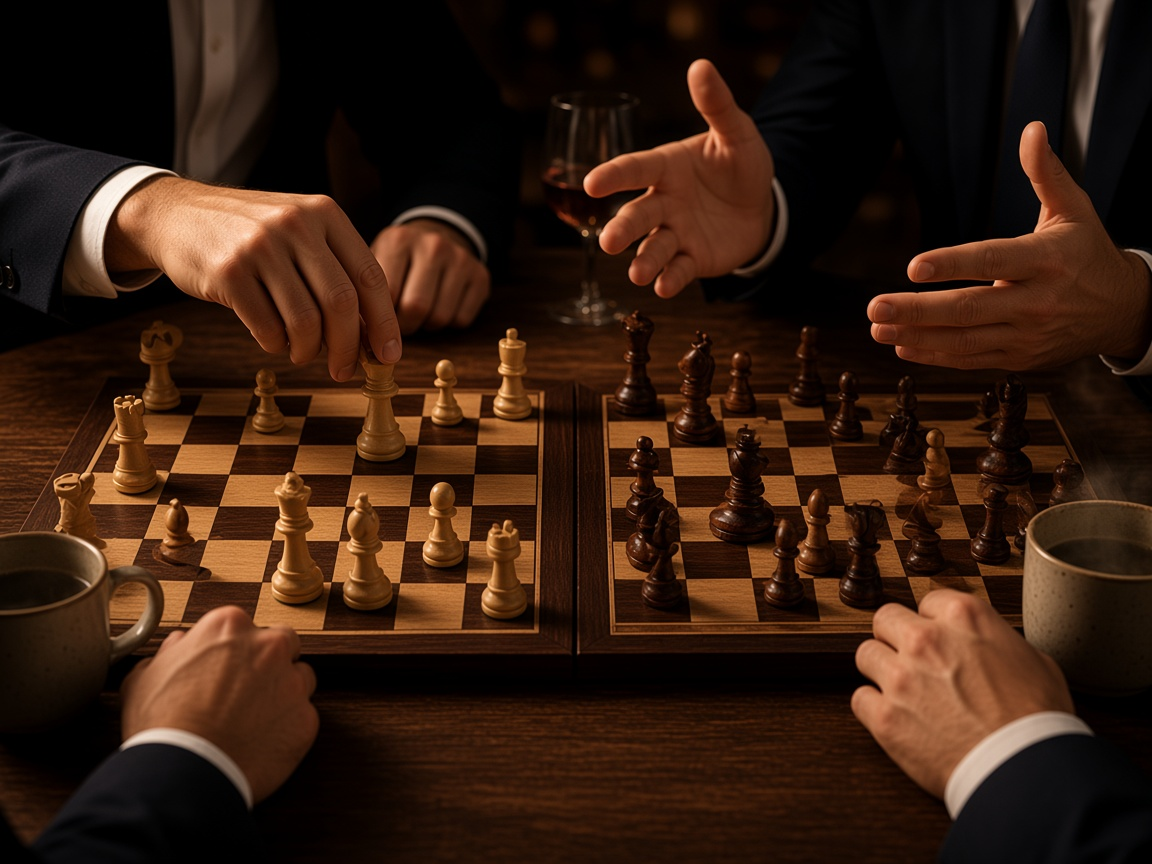
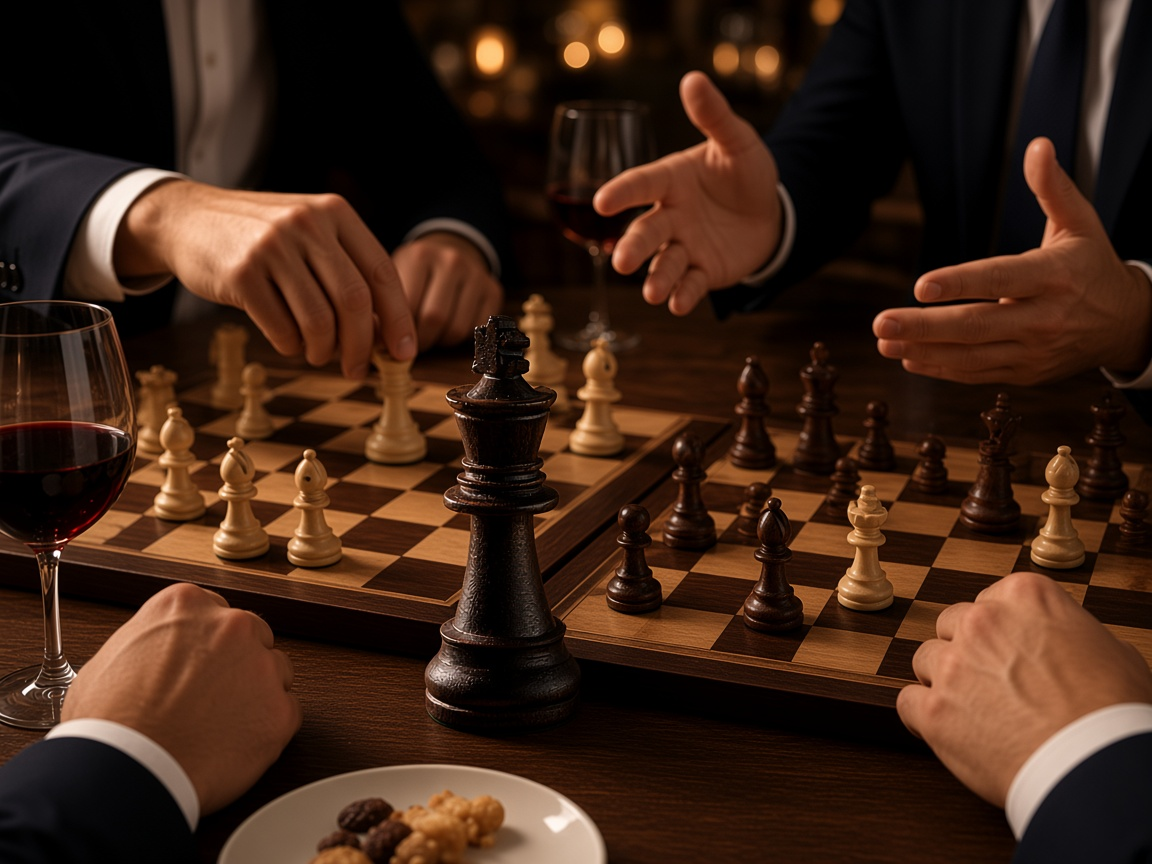
Move imagery to restaurant venues and mention wine and snacks.
Keep chess central while framing evenings as social hospitality in larger rooms, not a private home.

diff --git a/en/teams.html b/en/teams.html
@@ -53,13 +53,13 @@
         <div class="split-text">
           <p class="kicker" data-i18n="teams.kicker">MadridMinds for Teams</p>
           <h1 data-i18n="teams.h1">Think together. Play together.</h1>
-          <p class="lede" data-i18n="teams.lede">A premium chess experience for teams — designed so complete beginners can join from the start.</p>
+          <p class="lede" data-i18n="teams.lede">A premium chess experience for teams — designed so complete beginners can join from the start. Think, play, and share the table over wine and snacks.</p>
           <div class="hero-actions">
             <a class="btn btn-primary" href="mailto:ruy@madridminds.com?subject=MadridMinds%20for%20Teams%20proposal" data-i18n="teams.cta" data-i18n-mailto-subject="teams.proposalSubject">Request a proposal</a>
           </div>
         </div>
         <div class="split-media">
-          <img src="/photos/web/evening-play.jpg" alt="A lively team chess evening with smiles and high-fives" width="1152" height="864" />
+          <img src="/photos/web/evening-play.jpg" alt="A lively team chess evening in a private room with wine and snacks" width="1152" height="864" />
         </div>
       </div>
     </header>
@@ -115,11 +115,11 @@
     <section class="section section--flush teams-atmosphere" aria-labelledby="teams-atmosphere">
       <div class="split">
         <div class="split-media">
-          <img src="/photos/web/hands-on-board.jpg" alt="A small group celebrating moves around two boards" width="1152" height="864" />
+          <img src="/photos/web/hands-on-board.jpg" alt="A small group celebrating chess moves over wine and snacks" width="1152" height="864" />
         </div>
         <div class="split-text">
           <h2 class="section-heading" id="teams-atmosphere" data-i18n="teams.atmoTitle">A team experience that feels engaging, not corporate.</h2>
-          <p class="lede" data-i18n="teams.atmoBody">Small groups, a comfortable setting, conversation and friendly competition. The experience should feel engaging and polished — not like a lecture or traditional training session.</p>
+          <p class="lede" data-i18n="teams.atmoBody">A private room, conversation, friendly competition — with wine and snacks on the table so it feels like a real evening together, not a training session.</p>
         </div>
       </div>
     </section>

diff --git a/es/the-first-move.html b/es/the-first-move.html
@@ -60,7 +60,7 @@
       <p class="kicker" data-i18n="firstMove.kicker">01 · Begin</p>
       <h1 data-i18n="experiences.firstMoveName">The First Move</h1>
       <p class="hero-sub" data-i18n="firstMove.sub">Your first chess evening.</p>
-      <p class="lede lede--center" data-i18n="firstMove.lede">Chess is easier than you think. A standalone evening for complete beginners — fun, surprising, and unintimidating.</p>
+      <p class="lede lede--center" data-i18n="firstMove.lede">Chess is easier than you think. A standalone evening for complete beginners — fun, surprising, and unintimidating. Chess at the centre, with wine and snacks around the table.</p>
       <div class="hero-actions" style="margin-top:1.5rem">
         <a class="btn btn-primary" href="/book.html" data-i18n="common.bookFirstMove">Book your First Move</a>
         <a class="btn btn-ghost" href="#notify" data-i18n="common.getNotified">Get notified of the next dates</a>
@@ -111,7 +111,7 @@
           <div class="practical-item"><dt data-i18n="common.groupLabel">Group</dt><dd data-i18n="common.smallGroups">Small groups</dd></div>
           <div class="practical-item"><dt data-i18n="common.priceLabel">Price</dt><dd><span data-mm-price="experience">€55</span> <span data-i18n="common.perPerson">per person</span>. <span data-i18n="home.priceGuestLine">Bring a guest at no extra cost.</span></dd></div>
           <div class="practical-item"><dt data-i18n="common.guestLabel">Guest policy</dt><dd data-i18n="firstMove.guest">Bring a guest if you like — they’re free. Coming alone is normal — we’ll seat you with the group.</dd></div>
-          <div class="practical-item"><dt data-i18n="common.drinksLabel">Drinks</dt><dd data-i18n="firstMove.drinks">Available as part of the atmosphere</dd></div>
+          <div class="practical-item"><dt data-i18n="common.drinksLabel">Wine &amp; snacks</dt><dd data-i18n="firstMove.drinks">Wine and light snacks included as part of the evening</dd></div>
           <div class="practical-item"><dt data-i18n="common.commitmentLabel">Commitment</dt><dd data-i18n="firstMove.commitment">Standalone evening. No subscription.</dd></div>
         </dl>
         <p style="margin-top:2rem"><a class="btn btn-primary" href="/book.html" data-i18n="common.bookFirstMove">Book your First Move</a></p>

diff --git a/templates/locale/first-move.html b/templates/locale/first-move.html
@@ -3,7 +3,7 @@
       <p class="kicker" data-i18n="firstMove.kicker">01 · Begin</p>
       <h1 data-i18n="experiences.firstMoveName">The First Move</h1>
       <p class="hero-sub" data-i18n="firstMove.sub">Your first chess evening.</p>
-      <p class="lede lede--center" data-i18n="firstMove.lede">Chess is easier than you think. A standalone evening for complete beginners — fun, surprising, and unintimidating.</p>
+      <p class="lede lede--center" data-i18n="firstMove.lede">Chess is easier than you think. A standalone evening for complete beginners — fun, surprising, and unintimidating. Chess at the centre, with wine and snacks around the table.</p>
       <div class="hero-actions" style="margin-top:1.5rem">
         <a class="btn btn-primary" href="/book.html" data-i18n="common.bookFirstMove">Book your First Move</a>
         <a class="btn btn-ghost" href="#notify" data-i18n="common.getNotified">Get notified of the next dates</a>
@@ -54,7 +54,7 @@
           <div class="practical-item"><dt data-i18n="common.groupLabel">Group</dt><dd data-i18n="common.smallGroups">Small groups</dd></div>
           <div class="practical-item"><dt data-i18n="common.priceLabel">Price</dt><dd><span data-mm-price="experience">€55</span> <span data-i18n="common.perPerson">per person</span>.</dd></div>
           <div class="practical-item"><dt data-i18n="common.guestLabel">Guest policy</dt><dd data-i18n="firstMove.guest">Tickets are per person. Coming alone is normal — we’ll seat you with the group.</dd></div>
-          <div class="practical-item"><dt data-i18n="common.drinksLabel">Drinks</dt><dd data-i18n="firstMove.drinks">Available as part of the atmosphere</dd></div>
+          <div class="practical-item"><dt data-i18n="common.drinksLabel">Wine &amp; snacks</dt><dd data-i18n="firstMove.drinks">Wine and light snacks included as part of the evening</dd></div>
           <div class="practical-item"><dt data-i18n="common.commitmentLabel">Commitment</dt><dd data-i18n="firstMove.commitment">Standalone evening. No subscription.</dd></div>
         </dl>
         <p style="margin-top:2rem"><a class="btn btn-primary" href="/book.html" data-i18n="common.bookFirstMove">Book your First Move</a></p>

diff --git a/en/the-first-move.html b/en/the-first-move.html
@@ -49,7 +49,7 @@
       <p class="kicker" data-i18n="firstMove.kicker">01 · Begin</p>
       <h1 data-i18n="experiences.firstMoveName">The First Move</h1>
       <p class="hero-sub" data-i18n="firstMove.sub">Your first chess evening.</p>
-      <p class="lede lede--center" data-i18n="firstMove.lede">Chess is easier than you think. A standalone evening for complete beginners — fun, surprising, and unintimidating.</p>
+      <p class="lede lede--center" data-i18n="firstMove.lede">Chess is easier than you think. A standalone evening for complete beginners — fun, surprising, and unintimidating. Chess at the centre, with wine and snacks around the table.</p>
       <div class="hero-actions" style="margin-top:1.5rem">
         <a class="btn btn-primary" href="/book.html" data-i18n="common.bookFirstMove">Book your First Move</a>
         <a class="btn btn-ghost" href="#notify" data-i18n="common.getNotified">Get notified of the next dates</a>
@@ -100,7 +100,7 @@
           <div class="practical-item"><dt data-i18n="common.groupLabel">Group</dt><dd data-i18n="common.smallGroups">Small groups</dd></div>
           <div class="practical-item"><dt data-i18n="common.priceLabel">Price</dt><dd><span data-mm-price="experience">€55</span> <span data-i18n="common.perPerson">per person</span>.</dd></div>
           <div class="practical-item"><dt data-i18n="common.guestLabel">Tickets</dt><dd data-i18n="firstMove.guest">Tickets are per person. Coming alone is normal — we’ll seat you with the group.</dd></div>
-          <div class="practical-item"><dt data-i18n="common.drinksLabel">Drinks</dt><dd data-i18n="firstMove.drinks">Available as part of the atmosphere</dd></div>
+          <div class="practical-item"><dt data-i18n="common.drinksLabel">Wine &amp; snacks</dt><dd data-i18n="firstMove.drinks">Wine and light snacks included as part of the evening</dd></div>
           <div class="practical-item"><dt data-i18n="common.commitmentLabel">Commitment</dt><dd data-i18n="firstMove.commitment">Standalone evening. No subscription.</dd></div>
         </dl>
         <p style="margin-top:2rem"><a class="btn btn-primary" href="/book.html" data-i18n="common.bookFirstMove">Book your First Move</a></p>

diff --git a/es/index.html b/es/index.html
@@ -145,11 +145,11 @@
           <h2 class="section-heading" id="atmosphere" data-i18n="home.atmoTitle">Una velada distinta.</h2>
           <div class="accent-rule"></div>
           <div class="body-text">
-            <p data-i18n="home.atmo1">Grupos pequeños, un entorno bonito, buena conversación y algo de verdad interesante que hacer juntos. El ajedrez está en el centro, pero la experiencia trata de aprender, pensar, jugar y disfrutar de la gente a tu alrededor.</p>
+            <p data-i18n="home.atmo1">Grupos pequeños, un entorno bonito, buena conversación, vino y algo para picar en la mesa — y algo de verdad interesante que hacer juntos. El ajedrez está en el centro, pero la velada trata de aprender, pensar, jugar y disfrutar de la gente a tu alrededor.</p>
           </div>
         </div>
         <div class="split-media">
-          <img src="/photos/web/hands-on-board.jpg" alt="Amigos riendo alrededor de tableros en una velada en Madrid" width="1152" height="864" />
+          <img src="/photos/web/hands-on-board.jpg" alt="Amigos riendo con ajedrez, vino y snacks en un restaurante de Madrid" width="1152" height="864" />
         </div>
       </div>
     </section>
@@ -159,7 +159,7 @@
     <section class="section section--tight" aria-labelledby="teams-gate">
       <div class="inner inner--narrow center">
         <h2 class="section-heading" id="teams-gate" data-i18n="home.teamsTitle">MadridMinds for Teams</h2>
-        <p class="lede lede--center" data-i18n="home.teamsLede">Learn something new together, play some chess and enjoy a little friendly competition. Designed so everyone can take part — no chess experience required.</p>
+        <p class="lede lede--center" data-i18n="home.teamsLede">Learn something new together, play some chess, share wine and snacks, and enjoy a little friendly competition. Designed so everyone can take part — no chess experience required.</p>
         <p style="margin-top:1.5rem"><a class="btn-text" href="/teams.html" data-i18n="home.teamsCta">Explorar experiencias para equipos</a></p>
       </div>
     </section>

diff --git a/en/index.html b/en/index.html
@@ -134,11 +134,11 @@
           <h2 class="section-heading" id="atmosphere" data-i18n="home.atmoTitle">A different kind of evening.</h2>
           <div class="accent-rule"></div>
           <div class="body-text">
-            <p data-i18n="home.atmo1">Small groups, a beautiful setting, good conversation and something genuinely engaging to do together. Chess is at the centre, but the experience is about learning, thinking, playing and enjoying the people around you.</p>
+            <p data-i18n="home.atmo1">Small groups, a beautiful setting, good conversation, wine and snacks on the table — and something genuinely engaging to do together. Chess is at the centre, but the evening is about learning, thinking, playing and enjoying the people around you.</p>
           </div>
         </div>
         <div class="split-media">
-          <img src="/photos/web/hands-on-board.jpg" alt="Friends laughing around chessboards at a Madrid evening" width="1152" height="864" />
+          <img src="/photos/web/hands-on-board.jpg" alt="Friends laughing over chess, wine and snacks in a Madrid restaurant" width="1152" height="864" />
         </div>
       </div>
     </section>
@@ -148,7 +148,7 @@
     <section class="section section--tight" aria-labelledby="teams-gate">
       <div class="inner inner--narrow center">
         <h2 class="section-heading" id="teams-gate" data-i18n="home.teamsTitle">MadridMinds for Teams</h2>
-        <p class="lede lede--center" data-i18n="home.teamsLede">Learn something new together, play some chess and enjoy a little friendly competition. Designed so everyone can take part — no chess experience required.</p>
+        <p class="lede lede--center" data-i18n="home.teamsLede">Learn something new together, play some chess, share wine and snacks, and enjoy a little friendly competition. Designed so everyone can take part — no chess experience required.</p>
         <p style="margin-top:1.5rem"><a class="btn-text" href="/teams.html" data-i18n="home.teamsCta">Explore team experiences</a></p>
       </div>
     </section>

diff --git a/templates/locale/home.html b/templates/locale/home.html
@@ -88,11 +88,11 @@
           <h2 class="section-heading" id="atmosphere" data-i18n="home.atmoTitle">A different kind of evening.</h2>
           <div class="accent-rule"></div>
           <div class="body-text">
-            <p data-i18n="home.atmo1">Small groups, a beautiful setting, good conversation and something genuinely engaging to do together. Chess is at the centre, but the experience is about learning, thinking, playing and enjoying the people around you.</p>
+            <p data-i18n="home.atmo1">Small groups, a beautiful setting, good conversation, wine and snacks on the table — and something genuinely engaging to do together. Chess is at the centre, but the evening is about learning, thinking, playing and enjoying the people around you.</p>
           </div>
         </div>
         <div class="split-media">
-          <img src="/photos/web/hands-on-board.jpg" alt="Friends laughing around chessboards at a Madrid evening" width="1152" height="864" />
+          <img src="/photos/web/hands-on-board.jpg" alt="Friends laughing over chess, wine and snacks in a Madrid restaurant" width="1152" height="864" />
         </div>
       </div>
     </section>
@@ -102,7 +102,7 @@
     <section class="section section--tight" aria-labelledby="teams-gate">
       <div class="inner inner--narrow center">
         <h2 class="section-heading" id="teams-gate" data-i18n="home.teamsTitle">MadridMinds for Teams</h2>
-        <p class="lede lede--center" data-i18n="home.teamsLede">Learn something new together, play some chess and enjoy a little friendly competition. Designed so everyone can take part — no chess experience required.</p>
+        <p class="lede lede--center" data-i18n="home.teamsLede">Learn something new together, play some chess, share wine and snacks, and enjoy a little friendly competition. Designed so everyone can take part — no chess experience required.</p>
         <p style="margin-top:1.5rem"><a class="btn-text" href="/teams.html" data-i18n="home.teamsCta">Explore team experiences</a></p>
       </div>
     </section>

diff --git a/en/about.html b/en/about.html
@@ -48,7 +48,7 @@
     <header class="page-hero">
       <p class="kicker" data-i18n="about.kicker">About MadridMinds</p>
       <h1 data-i18n="about.h1">More than learning chess.</h1>
-      <p class="lede lede--center" data-i18n="about.lede">MadridMinds brings together chess, conversation and a relaxed setting for adults who want to learn something new and spend an evening doing something genuinely engaging.</p>
+      <p class="lede lede--center" data-i18n="about.lede">MadridMinds brings together chess, conversation, wine and snacks, and a relaxed setting for adults who want to learn something new and spend an evening doing something genuinely engaging.</p>
     </header>
     <section class="section" style="padding-top:0">
       <div class="inner inner--narrow">
@@ -64,7 +64,7 @@
     <section class="section section--tight">
       <div class="inner inner--narrow center">
         <h2 class="section-heading" data-i18n="about.atmosphereTitle">A different kind of evening.</h2>
-        <p class="lede lede--center" data-i18n="about.atmosphereBody">Small groups, a comfortable setting, good conversation and time to actually engage with the people around you. Come to learn, come with a friend, or simply come because you want to try something different.</p>
+        <p class="lede lede--center" data-i18n="about.atmosphereBody">Small groups, a comfortable setting, wine and snacks, good conversation and time to actually engage with the people around you. Come to learn, come with a friend, or simply come because you want to try something different.</p>
       </div>
     </section>
     <section class="final-cta" style="padding-top:1rem">

diff --git a/templates/locale/about.html b/templates/locale/about.html
@@ -2,7 +2,7 @@
     <header class="page-hero">
       <p class="kicker" data-i18n="about.kicker">About MadridMinds</p>
       <h1 data-i18n="about.h1">More than learning chess.</h1>
-      <p class="lede lede--center" data-i18n="about.lede">MadridMinds brings together chess, conversation and a relaxed setting for adults who want to learn something new and spend an evening doing something genuinely engaging.</p>
+      <p class="lede lede--center" data-i18n="about.lede">MadridMinds brings together chess, conversation, wine and snacks, and a relaxed setting for adults who want to learn something new and spend an evening doing something genuinely engaging.</p>
     </header>
     <section class="section" style="padding-top:0">
       <div class="inner inner--narrow">
@@ -18,7 +18,7 @@
     <section class="section section--tight">
       <div class="inner inner--narrow center">
         <h2 class="section-heading" data-i18n="about.atmosphereTitle">A different kind of evening.</h2>
-        <p class="lede lede--center" data-i18n="about.atmosphereBody">Small groups, a comfortable setting, good conversation and time to actually engage with the people around you. Come to learn, come with a friend, or simply come because you want to try something different.</p>
+        <p class="lede lede--center" data-i18n="about.atmosphereBody">Small groups, a comfortable setting, wine and snacks, good conversation and time to actually engage with the people around you. Come to learn, come with a friend, or simply come because you want to try something different.</p>
       </div>
     </section>
     <section class="final-cta" style="padding-top:1rem">

diff --git a/es/teams.html b/es/teams.html
@@ -70,7 +70,7 @@
           </div>
         </div>
         <div class="split-media">
-          <img src="/photos/web/evening-play.jpg" alt="Una velada de ajedrez en equipo con sonrisas y choca esos cinco" width="1152" height="864" />
+          <img src="/photos/web/evening-play.jpg" alt="Una velada de ajedrez en equipo en una sala privada con vino y snacks" width="1152" height="864" />
         </div>
       </div>
     </header>
@@ -126,7 +126,7 @@
     <section class="section section--flush teams-atmosphere" aria-labelledby="teams-atmosphere">
       <div class="split">
         <div class="split-media">
-          <img src="/photos/web/hands-on-board.jpg" alt="Un grupo pequeño celebrando jugadas alrededor de dos tableros" width="1152" height="864" />
+          <img src="/photos/web/hands-on-board.jpg" alt="Un grupo pequeño celebrando jugadas con vino y snacks" width="1152" height="864" />
         </div>
         <div class="split-text">
           <h2 class="section-heading" id="teams-atmosphere" data-i18n="teams.atmoTitle">Una experiencia de equipo atractiva, no corporativa.</h2>

diff --git a/es/about.html b/es/about.html
@@ -75,7 +75,7 @@
     <section class="section section--tight">
       <div class="inner inner--narrow center">
         <h2 class="section-heading" data-i18n="about.atmosphereTitle">Una velada distinta.</h2>
-        <p class="lede lede--center" data-i18n="about.atmosphereBody">Grupos pequeños, un ambiente cómodo, buena conversación y tiempo para conectar de verdad con la gente a tu alrededor. Ven a aprender, ven con un amigo, o simplemente ven porque quieres probar algo diferente.</p>
+        <p class="lede lede--center" data-i18n="about.atmosphereBody">Grupos pequeños, un ambiente cómodo, vino y snacks, buena conversación y tiempo para conectar de verdad con la gente a tu alrededor. Ven a aprender, ven con un amigo, o simplemente ven porque quieres probar algo diferente.</p>
       </div>
     </section>
     <section class="final-cta" style="padding-top:1rem">

diff --git a/en/book.html b/en/book.html
@@ -48,7 +48,7 @@
     <header class="page-hero">
       <p class="kicker" data-i18n="book.kicker">The First Move</p>
       <h1 data-i18n="book.h1">Book your First Move</h1>
-      <p class="lede lede--center" data-i18n="book.lede">Your first chess evening in Madrid. €55 per person. Coming alone is normal. No subscriptions. No weekly commitment.</p>
+      <p class="lede lede--center" data-i18n="book.lede">Your first chess evening in Madrid. €55 per person — wine and light snacks included. Coming alone is normal. No subscriptions. No weekly commitment.</p>
     </header>
     <section class="section" style="padding-top:0">
       <div class="inner inner--narrow">
